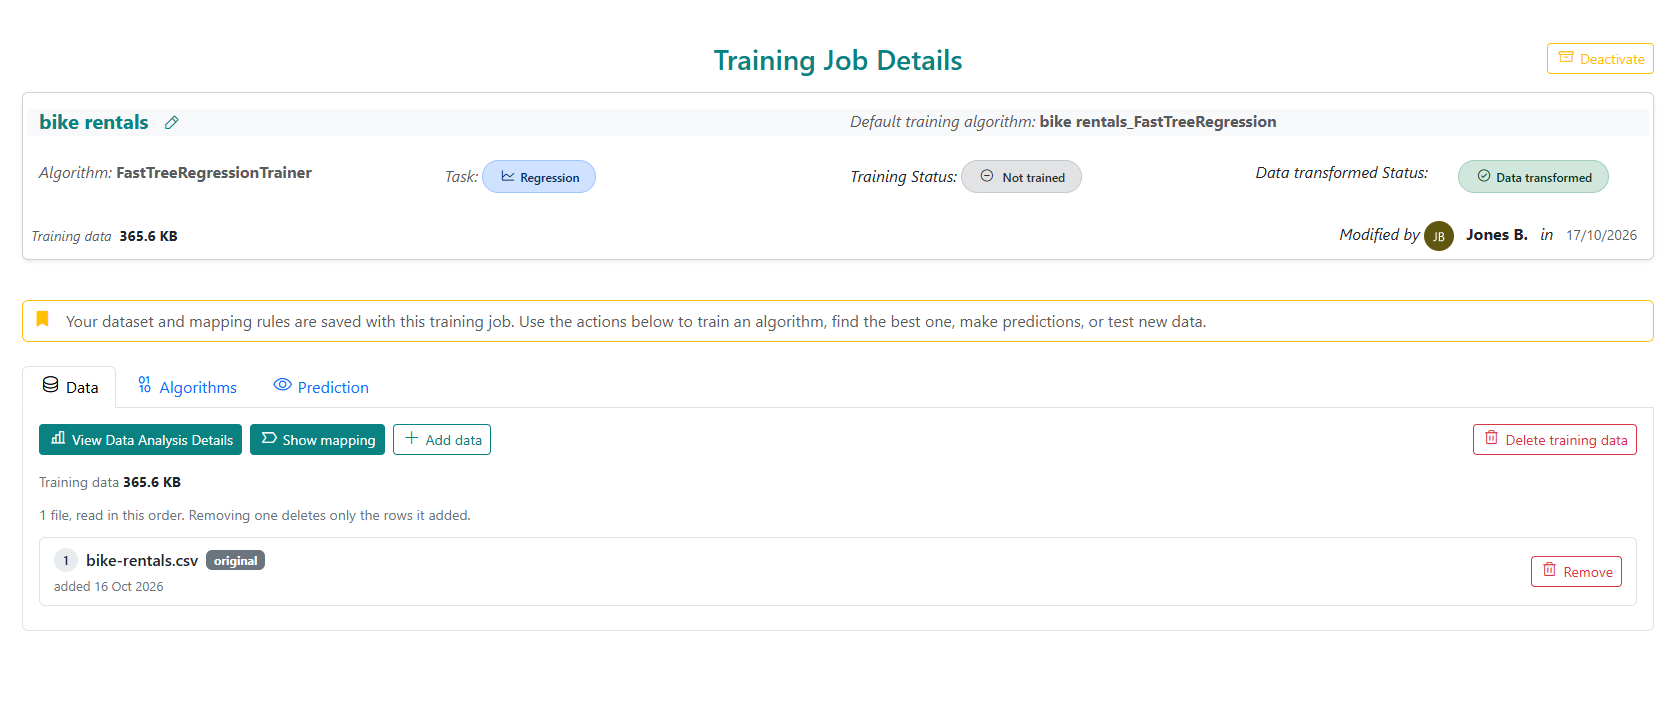
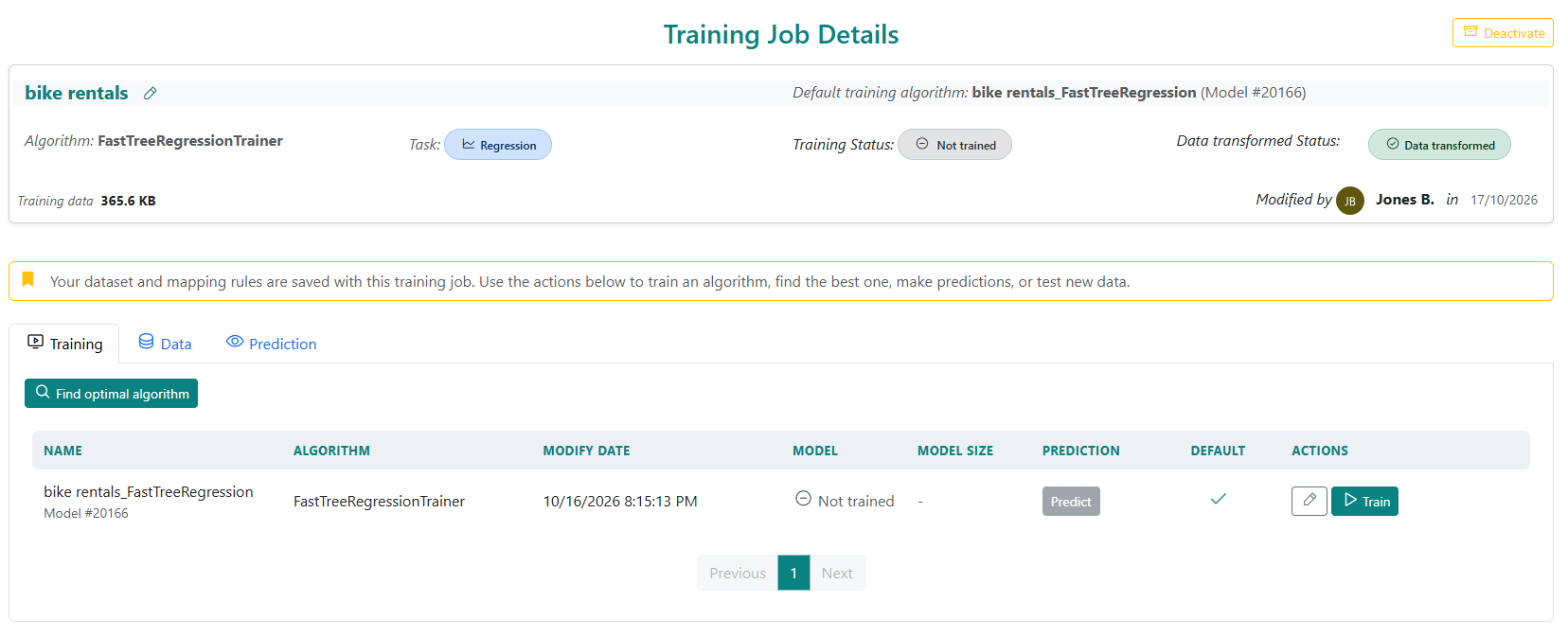
Rename tabs to Training, show the real widget, sharpen screenshots
- "Algorithms" and "Training run" tabs are now "Training" in every walkthrough.
- Getting started: table of contents; the model number is on the AI Board card.
- The widget sections show the widget on the bike rentals demo page.
- Anomaly score explained by its 0.5 line instead of 0-to-1 similarity.
- Banner at the top of the README.

diff --git a/getting-started/README.md b/getting-started/README.md
@@ -2,6 +2,15 @@
 
 Everything the examples have in common, once. Read this before your first example. Five minutes.
 
+1. [The three steps of every example](#1-the-three-steps-of-every-example)
+2. [Mapping: the fields a tabular model has](#2-mapping-the-fields-a-tabular-model-has)
+3. [Keys](#3-keys)
+4. [Finding your model id](#4-finding-your-model-id)
+5. [Calling the API](#5-calling-the-api)
+6. [The free trial](#6-the-free-trial)
+7. [The widget](#7-the-widget)
+8. [Use your own data](#8-use-your-own-data)
+
 ## 1. The three steps of every example
 
 ```
@@ -19,10 +28,10 @@ Everything the examples have in common, once. Read this before your first exampl
    ![The new-training dialog: a name, then drop the file in](images/upload-a-file.png)
 
 2. **Train.** Open the training from **Trainings** (`/Trainings`). It first imports and checks your
-   data; when it's ready, go to the **Algorithms** tab and click **Actions → Train**. The row says
+   data; when it's ready, go to the **Training** tab and click **Actions → Train**. The row says
    **Trained** when it's done, and **Predict** lets you try it right there in the browser.
 
-   ![A training's page: its data first, then the Algorithms tab where you train](images/training-page.png)
+   ![A training's page, open on the Training tab where you train](images/training-page.png)
 
 3. **Use.** Every trained model has a number, shown as **Model #1234**. Your code sends that number
    with each request.
@@ -31,7 +40,7 @@ Images and text have their own cards: **Image Classification** under *Computer V
 **Text Classification**, **Multi-label Text** and **Semantic Search** under *Natural Language
 Processing*. An image ZIP or a folder-per-category text ZIP needs no mapping. A text CSV maps its
 text column to **Text** and its category column to **Label**; a search index maps **Text** and
-**Id**. Their pages have a **Training run** tab, where you start the run (choosing a pretrained
+**Id**. Their pages have a **Training** tab, where you start the run (choosing a pretrained
 encoder or *from scratch* in a dialog), and a **Prediction** tab. They train on a GPU.
 
 ## 2. Mapping: the fields a tabular model has
@@ -86,7 +95,7 @@ $env:PLAXOR_MODEL_ID = "1234"
 The number is on the **AI Board** (`/ai-board`), on each model's card and detail page, as
 **Model #1234**. The **Developers** page (`/developers#model-id`) shows the same with pictures.
 
-![The model number in the corner of a model's chat on the AI Board](images/model-number.png)
+![The model number on a model's card on the AI Board](images/model-number.png)
 
 Retraining makes a new version of the *same* model. The number doesn't change, so your code keeps
 working.
@@ -143,7 +152,7 @@ Which field to read depends on the task:
 | Clustering | `predictedLabel` — the cluster number. `scores` are distances to each cluster centre, so **smaller means closer** |
 | Ranking | `score` — only meaningful compared with the other items of the same list; sort by it |
 | Recommendation | `recommendations` — `[{ "item": "…", "score": 4.6 }, …]`, best first |
-| Anomaly detection | `predictedLabel` (`"True"` = unusual) and `score` — 0 fits the learned pattern, 1 has nothing in common with it |
+| Anomaly detection | `predictedLabel` (`"True"` = unusual) and `score` — 0 fits the learned pattern; above 0.5 is unusual, and the further off the pattern the closer to 1 |
 | Multi-label text | `predictedLabels` — every label that applies, **possibly none**. `predictedLabel` is the strongest one |
 | Semantic search | `matches` — `[{ "id": "…", "score": 0.58, "payload": { … } }, …]`, best first; **empty, not an error**, when nothing is close enough |
 
@@ -184,6 +193,8 @@ To move on to a third example, delete one on the AI Board first.
 The widget is a chat window on your own web page. Visitors ask questions in plain language, such as
 *"how many bikes at 18:00 when it's 25 degrees?"* or *"what's wrong with this leaf?"* (with a photo).
 An LLM turns the question into a prediction from your model and explains the answer.
+
+![The widget on the bike rentals demo page, answering two questions](../tabular/forecast-bike-rentals/images/widget.png)
 
 1. **Connect an LLM** on the **AI Board** (`/ai-board`), choose the model and turn chat on. Without
    this the widget has nothing to answer with.

diff --git a/tabular/spot-unusual-server-load/README.md b/tabular/spot-unusual-server-load/README.md
@@ -64,7 +64,7 @@ Click **Save**.
 
 ## 3. Train
 
-**Trainings** → open it → **Algorithms** tab → **Actions → Train**. Anomaly detection trains on the
+**Trainings** → open it → **Training** tab → **Actions → Train**. Anomaly detection trains on the
 CPU in a few seconds.
 
 **How it decides.** Training puts the threshold where **about 1% of the training readings** fall
@@ -83,13 +83,14 @@ Click **Predict** on the trained row:
 |---|---|---|---|
 | `1900` | `72` | **False**, score near 0 | A busy afternoon. High CPU, but the traffic explains it |
 | `230` | `12` | **False**, score near 0 | A quiet night |
-| `250` | `86` | **True**, score ~0.9 | 86% CPU with almost no traffic |
-| `2000` | `13` | **True**, score ~0.9 | Peak traffic and an idle CPU: requests are failing |
+| `250` | `86` | **True**, score well above 0.5 | 86% CPU with almost no traffic |
+| `2000` | `13` | **True**, score well above 0.5 | Peak traffic and an idle CPU: requests are failing |
 | `1400` | `97` | **True** | Far busier than that traffic explains |
 | `300` | `50` | **True** | Half the CPU gone with nothing to show for it |
 
-The **score** runs from 0 (exactly the usual pattern) to 1 (nothing in common with it).
-`predictedLabel` is `True` when the score is above the threshold training chose.
+The **score** is how far the reading sits from the usual pattern, scaled so that **0.5** is exactly
+as unusual as the rarest 1% of the training week. 0 is the pattern itself; the further off it, the
+closer to 1. `predictedLabel` is `True` above 0.5 — the same line for every anomaly model.
 
 ## 5. Call it from code
 

diff --git a/tabular/forecast-bike-rentals/README.md b/tabular/forecast-bike-rentals/README.md
@@ -52,10 +52,10 @@ Click **Save**.
 
 ## 3. Train
 
-Open the training from **Trainings**. When the data has been imported, go to the **Algorithms** tab
+Open the training from **Trainings**. When the data has been imported, go to the **Training** tab
 and click **Actions → Train**. It takes a minute or two; the row then shows **Trained**.
 
-![The Algorithms tab, with Train under Actions](images/algorithms-tab.png)
+![The Training tab, with Train under Actions](images/algorithms-tab.png)
 
 **What to expect:** on a held-out fifth of the data our test run scored **R² ≈ 0.6**, about
 **±75 bikes** off on a typical hour. That's good for two inputs. The rest of the variation is
@@ -112,7 +112,7 @@ The answer is in `score`.
 `widget/index.html` is a small "demand planner" page with the PlaxorStack chat in the corner.
 Visitors ask in plain words — *"how many bikes at 18:00 if it's 25 degrees?"* — and the model answers.
 
-![Asking the model in the chat: about 503 bikes at 17:00 and 24 degrees](images/chat.png)
+![The demo page with the widget open: 333 bikes at 8 am and 12 degrees, 590 at 5 pm and 28](images/widget.png)
 
 1. **AI Board** → choose this model → connect an LLM and turn chat on.
 2. **Secrets** → create a **Widget** key for this model. Leave *Allowed sites* empty for now.

diff --git a/image/detect-leaf-disease/README.md b/image/detect-leaf-disease/README.md
@@ -42,7 +42,7 @@ There's nothing to map: an image ZIP needs only its folders.
 
 ## 2. Train
 
-**Training run** tab → **Start training**. The dialog offers **Pretrained (ResNet-50)**, already
+**Training** tab → **Start training**. The dialog offers **Pretrained (ResNet-50)**, already
 selected, or *From scratch*. Keep the pretrained one. It has already learned to see edges, textures
 and shapes from millions of photos, so 252 photos are enough to teach it three kinds of leaf. From
 scratch would need thousands. Image models train on a GPU and fit within the free trial's monthly

diff --git a/text/route-support-tickets/README.md b/text/route-support-tickets/README.md
@@ -47,7 +47,7 @@ This dataset was written for the example: real support inboxes are private. See
 
 ## 2. Train
 
-1. On the training's page, open the **Training run** tab and click **Train model**.
+1. On the training's page, open the **Training** tab and click **Train model**.
 2. Choose how to train. **MiniLM** suits a set this small: it's a pretrained encoder that already
    knows English, so 320 tickets are plenty. *From scratch* learns the words from your data alone,
    which works well once you have thousands of rows.

diff --git a/text/filter-spam-messages/README.md b/text/filter-spam-messages/README.md
@@ -42,7 +42,7 @@ Free entry in 2 a wkly comp to win FA Cup final tkts 21st May 2005. Text FA to 8
 
 ## 2. Train
 
-**Training run** tab → **Train model** → choose how to train → **Start training**. With 5,574
+**Training** tab → **Train model** → choose how to train → **Start training**. With 5,574
 messages, *From scratch* does well and is the quickest. **MiniLM** copes better with slang it hasn't
 seen. This set is larger than the ticket example, so it uses more of your monthly GPU minutes.
 

diff --git a/tabular/recommend-products/README.md b/tabular/recommend-products/README.md
@@ -51,7 +51,7 @@ Ids can be any text: `C0137`, an email hash, a product name, a SKU. Click **Save
 
 ## 3. Train
 
-**Trainings** → open it → **Algorithms** tab → **Actions → Train**.
+**Trainings** → open it → **Training** tab → **Actions → Train**.
 
 **What to expect:** judge the model by its lists, not by an accuracy figure. Ratings are noisy, and
 most possible pairs are never rated. What matters is that a customer's list holds things they would

diff --git a/text/tag-product-reviews/README.md b/text/tag-product-reviews/README.md
@@ -58,7 +58,7 @@ This dataset was written for the example: see [DATA-LICENSES.md](../../DATA-LICE
 
 ## 2. Train
 
-1. Open the **Training run** tab and click **Train model**.
+1. Open the **Training** tab and click **Train model**.
 2. Choose the encoder. **MiniLM** is a good choice for a few hundred rows: it already knows English,
    so it doesn't have to learn the language from your 600 reviews. *From scratch* works too, but
    needs more data to do as well.

diff --git a/text/answer-questions-from-faq/README.md b/text/answer-questions-from-faq/README.md
@@ -58,7 +58,7 @@ Your page can show the answer straight from the search result, with no second lo
 
 ## 2. Build the index
 
-1. Open the **Training run** tab and click **Build index**.
+1. Open the **Training** tab and click **Build index**.
 2. Keep **MiniLM**, the default. DistilBERT is the other choice: larger and slower, sometimes better
    on long, technical documents.
 3. Click **Start training**. 48 articles take seconds.

diff --git a/tabular/rank-hotel-search-results/README.md b/tabular/rank-hotel-search-results/README.md
@@ -50,7 +50,7 @@ Leave `hotel` unmapped. Click **Save**.
 
 ## 3. Train
 
-**Trainings** → open it → **Algorithms** tab → **Actions → Train**.
+**Trainings** → open it → **Training** tab → **Actions → Train**.
 
 **What to expect:** an **NDCG@3 around 0.87** in our test run. NDCG measures how close the top of the
 model's order is to the ideal order: 1.0 means the hotels travellers chose are exactly the ones on

diff --git a/tabular/grade-beans-by-variety/README.md b/tabular/grade-beans-by-variety/README.md
@@ -51,7 +51,7 @@ Click **Save**.
 
 ## 3. Train
 
-**Trainings** → open it → **Algorithms** tab → **Actions → Train**.
+**Trainings** → open it → **Training** tab → **Actions → Train**.
 
 **What to expect:** about **88% of beans** go to the right variety in our test run. The mistakes are
 almost all between look-alikes: Dermason and Sira, or Barbunya and Cali. Bombay is never confused

diff --git a/tabular/predict-online-purchase/README.md b/tabular/predict-online-purchase/README.md
@@ -52,7 +52,7 @@ Click **Save**.
 
 ## 3. Train
 
-**Trainings** → open it → **Algorithms** tab → **Actions → Train**.
+**Trainings** → open it → **Training** tab → **Actions → Train**.
 
 **What to expect:** in our test run, **89% accuracy** and an **AUC of 0.88**. Read the accuracy
 with care: answering "no" every time would already score 85%, because most visits don't buy. AUC is
